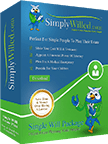
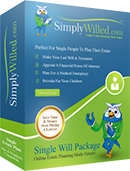
UI fixes

diff --git a/src/responsive.css b/src/responsive.css
@@ -14,7 +14,7 @@
         margin: 0 15px;
     }
     .about_sec4{
-		background-position: right 64% top; 
+		background-position: right 64% top;
 	}
 }
 
@@ -96,12 +96,10 @@
     }
     .single_will_book{
         margin-top: -20px;
-        width: 60px;
     }
     .book_price{
-        font-size: 30px;
+        font-size: 34px;
         line-height: 30px;
-        padding-top: 10px;
     }
     .get_start_pkg_btn{
         width:100%;
@@ -279,7 +277,7 @@
         bottom: 5px;
     }
     .about_sec4{
-		background-position: right 64% top -60px; 
+		background-position: right 64% top -60px;
 		background-size: auto 126%;
 	}
 }
@@ -479,7 +477,7 @@
     .estate_planning_right_main h1{
         font-size:20px;
     }
-   
+
     .team_name{
         font-size: 16px;
     }
@@ -759,7 +757,7 @@
         clear:left;
     }
     .packages_ul > li:nth-child(1), .packages_ul > li:nth-child(2){
-        margin-bottom:60px; 
+        margin-bottom:60px;
     }*/
     .save_text{
         font-size:30px;
@@ -842,7 +840,7 @@
     .our_history_pera{
         font-size:16px;
     }
-    
+
     .team_name{
         font-size: 16px;
     }
@@ -973,7 +971,7 @@
         top: 20%;
     }
     .about_sec4{
-		background-size: auto 125%; 
+		background-size: auto 125%;
 		position: relative;
     }
     .adminModal {

diff --git a/src/app/user/user-dashboard/your-specific-gift/real-property/real-property.component.html b/src/app/user/user-dashboard/your-specific-gift/real-property/real-property.component.html
@@ -29,7 +29,7 @@
                   </label>
                 </li>
                 <li>
-                  <label class="radio_custom zero_nine_page yesNo"  [ngClass]="{'active': flags.residenceNoFlag}">
+                  <label class="radio_custom zero_nine_page yesNo" [ngClass]="{'active': flags.residenceNoFlag}">
                     <input type="radio" class="form-control" #residenceNo formControlName="residence" value="0" (click)="changeResidence(residenceNo.value)">
                     <span class="custom_img"><img src="../../../../../assets/images/no.png" alt="Np"></span>
                     <span class="human_status">No</span>

diff --git a/src/app/user/user-dashboard/packages/packages/packages.component.css b/src/app/user/user-dashboard/packages/packages/packages.component.css
@@ -192,7 +192,7 @@ span.bestValue img {
         width: 175px;
     }
     .packages_ul > li:first-child .book_main {
-        width: 155px;
+        width: 264px;
     }
 }
 @media screen and (max-width: 1199px) {
@@ -228,8 +228,18 @@ span.bestValue img {
 }
 
 @media screen and (max-width: 400px){
-    .applyCodeBtn{
-        font-size: 12px;
-        padding: 7px 0;
-    }
+  .applyCodeBtn{
+      font-size: 12px;
+      padding: 7px 0;
+  }
+  .book_price{
+    font-size: 30px;
+    padding-top: 30px;
+  }
+  .single_will_book img{
+    width: 100px;
+  }
+  .packages_ul > li:first-child .book_main {
+    width: 198px;
+  }
 }

diff --git a/src/styles.css b/src/styles.css
@@ -448,7 +448,7 @@ h1, h2, h3, h4, h5, h6 {
 	padding: 75px 0 0
 }
 #wrapper #page-wrapper{
-	
+
 }
 #wrapper #page-wrapper .panel-primary{
 	border-radius:7px;
@@ -1542,7 +1542,7 @@ color:#b5e5ff
 
 
 
-/* 
+/*
 
 .subscribe_text2 {
 	width:100%;
@@ -2926,7 +2926,6 @@ transform:rotate(360deg)
 }
 .single_will_book {
 	margin-top: -20px;
-	width: 60px
 }
 .book_price {
 	font-size: 30px;

diff --git a/src/style.css b/src/style.css
@@ -789,7 +789,7 @@ h1, h2, h3, h4, h5, h6{
     padding:0px 15px 0px 15px;
 }
 .book_main{
-    width:235px;
+    width:260px;
     padding-bottom:15px;
     margin: 0 auto;
 }
@@ -804,7 +804,7 @@ h1, h2, h3, h4, h5, h6{
     font-size:48px;
     line-height:40px;
     float:right;
-    padding-top: 28px;
+    padding-top: 50px;
 }
 .get_start_pkg_btn{
     width:202px;
